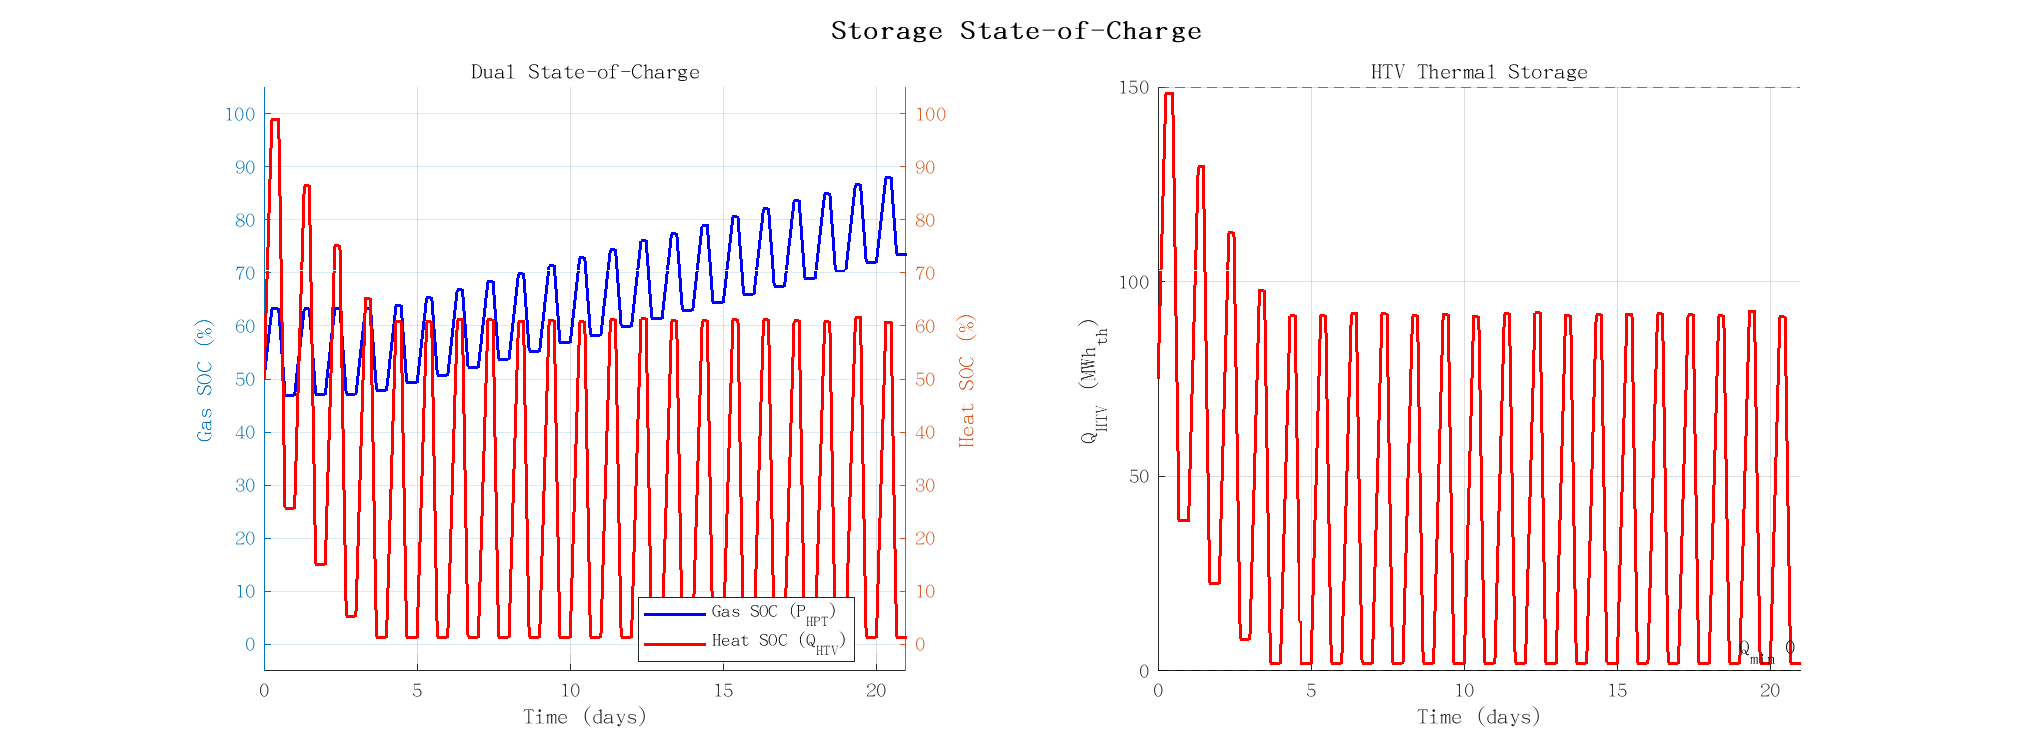
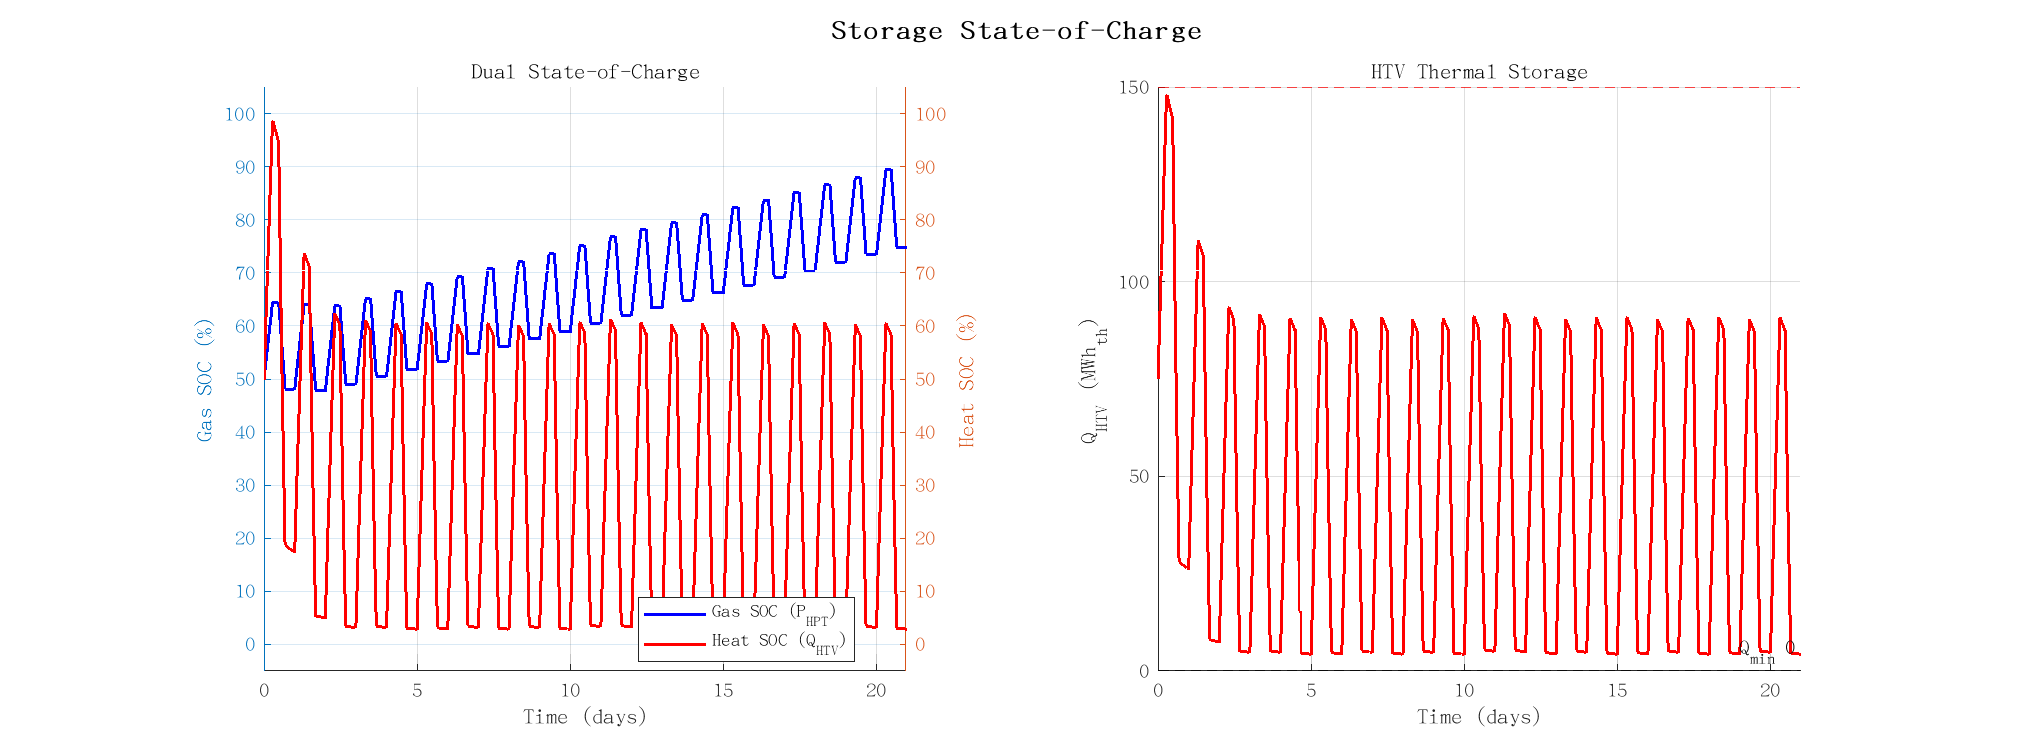
feat: upgrade HTV to detailed thermal oil model
Replace empirical Q→T mapping with physics-based oil model:
- State: T_HTV (oil temperature K) instead of Q_HTV (MJ)
- m*cp = 1964 MJ/K (150 MWh / 275K ΔT_max)
- dT/dt = (Q_IC - Q_HR - UA*(T-T_amb)) / (m*cp)
- UA_loss = 0.005 MW/K (industrial insulation)
- T_heat = T_HTV (CO2 reheat temperature = current oil temp)
- Constraints on T_HTV: charge if <568K, discharge if >308K
- T_HTV cycles 436K→308K→308K equilibrium

diff --git a/CCES_CHP_Simulink/src/ode/ode_dynamics.m b/CCES_CHP_Simulink/src/ode/ode_dynamics.m
@@ -1,93 +1,91 @@
 function [dx, W_comp, Q_IC, W_turb, Q_HR, T_heat, mode] = ode_dynamics(t, x)
-% 两相储罐 ODE: HPT液态CO2 + 饱和压力模型
-% x(1)=m_HPT [kg], x(2)=Q_HTV [MJ], x(3)=T_tank [K]
-persistent lib Fluid T_sat_vec P_sat_vec V_HPT
+% 两相HPT + 导热油HTV详细模型
+% x(1)=m_HPT [kg], x(2)=T_HTV [K], x(3)=T_tank [K]
+persistent lib Fluid T_sat_vec P_sat_vec V_HPT mcp_oil UA_loss T_amb T_max
 
 if isempty(lib)
     addpath(fullfile(fileparts(mfilename('fullpath')), '..', '..'));
     cfg = config_paths();
     lib = cfg.REFPROP_LIB;  Fluid = 'CO2';
-    V_HPT = 6228;
-    % 预计算饱和曲线 (260-304K)
+    V_HPT = 6228;  T_amb = 298;  T_max = 573;
+    % HPT 饱和曲线 LUT
     T_sat_vec = (260:0.5:304)';
     P_sat_vec = zeros(size(T_sat_vec));
     for i = 1:length(T_sat_vec)
         P_sat_vec(i) = getFP(lib, 'P', 'T', T_sat_vec(i), 'Q', 0, Fluid);
     end
-    fprintf('HPT两相模型: P_sat LUT %d pts (%.0f-%.0fK)\n', length(T_sat_vec), T_sat_vec(1), T_sat_vec(end));
+    % HTV 导热油: Q_cap=150MWh_th, ΔT_max=275K, m*cp=Q_cap/ΔT
+    mcp_oil = 150*3600 / (T_max - T_amb);  % ≈1964 MJ/K
+    UA_loss = 0.005;  % MW/K, 工业保温罐散热系数
+    fprintf('HTV导热油: m*cp=%.0f MJ/K, Tmax=%.0fK, UA=%.3f MW/K\n', mcp_oil, T_max, UA_loss);
+    fprintf('HPT两相: P_sat LUT %dpts (%.0f-%.0fK)\n', length(T_sat_vec), T_sat_vec(1), T_sat_vec(end));
 end
 
-m_HPT = x(1);  Q_HTV_MJ = x(2);  T_tank = x(3);
+m_HPT = x(1);  T_HTV = x(2);  T_tank = x(3);
+Q_HTV_MJ = mcp_oil * max(0, T_HTV - T_amb);  % 蓄热量 [MJ]
 
-% 当前温度饱和压力 + 密度
+% HPT 两相压力
 T_clamp = max(260, min(304, T_tank));
 P_sat_T = interp1(T_sat_vec, P_sat_vec, T_clamp, 'linear');
 rho_liq_T = getFP(lib, 'D', 'T', T_clamp, 'Q', 0, Fluid);
 rho_vap_T = getFP(lib, 'D', 'T', T_clamp, 'Q', 1, Fluid);
-
-% ==== 两相压力: 有液时 P=P_sat(T), 排空时 P=mRT/V ====
 m_sat_liq = rho_liq_T * V_HPT;
 m_sat_vap = rho_vap_T * V_HPT;
-
 if m_HPT >= m_sat_liq
-    overfill = (m_HPT - m_sat_liq) / m_sat_liq;
-    P_MPa = P_sat_T/1e6 + overfill * 1000;
+    P_MPa = P_sat_T/1e6 + (m_HPT - m_sat_liq)/m_sat_liq * 1000;
 elseif m_HPT > m_sat_vap * 0.05
     P_MPa = P_sat_T / 1e6;
 else
     P_MPa = m_HPT * 188.9 * T_tank / V_HPT / 1e6;
 end
 
-% ==== 调度 (每日循环: 充电7.5h + 放电5h) ====
+% 调度
 t_h = mod(t/3600, 24);
-if t_h < 7.5;       mode = 1;   % 充电
-elseif t_h < 11.5;   mode = 0;   % 待机
-elseif t_h < 16.5;   mode = -1;  % 放电 (3h→5h)
-else;                mode = 0;   % 待机
+if t_h < 7.5;       mode = 1;
+elseif t_h < 11.5;   mode = 0;
+elseif t_h < 16.5;   mode = -1;
+else;                mode = 0;
 end
 
-% ==== 约束条件 ====
-Q_MWh = max(0, Q_HTV_MJ/3600);
-P_ok_ch  = m_HPT < m_sat_liq * 0.995;    % 不满液时可充
-P_ok_dis = m_HPT > m_sat_vap * 1.05;     % 有液相时可放
-Q_ok_ch  = Q_MWh < 148;
-Q_ok_dis = Q_MWh > 2;
-T_heat = 298 + 185 * Q_MWh / (Q_MWh + 20);
-
-W_design = 10;  % MW
+% 约束 (基于油温)
+P_ok_ch  = m_HPT < m_sat_liq * 0.995;
+P_ok_dis = m_HPT > m_sat_vap * 1.05;
+Q_ok_ch  = T_HTV < T_max - 5;
+Q_ok_dis = T_HTV > T_amb + 10;
+T_heat = max(T_amb, min(T_max, T_HTV));  % CO2加热=当前油温
 
 if mode == 1 && P_ok_ch && Q_ok_ch
     % ===== 充电 =====
-    alpha_ch = 2.744;  % kg/(s·MW)
-    m_dot = alpha_ch * W_design;                    % 27.44 kg/s
-    [w_comp_kJ, q_IC_kJ] = charge_per_kg(lib, Fluid);
+    alpha_ch = 2.744;  m_dot = alpha_ch * 10;
+    [~, q_IC_kJ] = charge_per_kg(lib, Fluid);
     dm_HPT = m_dot;
-    dQ_HTV = q_IC_kJ * m_dot / 1000;
-    dT = (298 - T_tank) / 600;
-    W_C_actual = m_dot * w_comp_kJ / 1000;         % ~9.74 MW
-    W_comp = W_C_actual;  Q_IC = q_IC_kJ * m_dot / 1000;
-    W_turb = 0;  Q_HR = 0;
+    Q_IC_MW = q_IC_kJ * m_dot / 1000;
+    dT_HTV = (Q_IC_MW - UA_loss*(T_HTV-T_amb)) / mcp_oil;
+    dT_tank = (298 - T_tank) / 600;
+    W_comp = m_dot * charge_per_kg(lib, Fluid) / 1000;  % MW
+    Q_IC = Q_IC_MW;  W_turb = 0;  Q_HR = 0;
 
 elseif mode == -1 && P_ok_dis && Q_ok_dis
-    % ===== 放电: 透平按设计额定功率运行 =====
-    alpha_dis = 4.117;  % kg/(s·MW)
-    W_T_design = 10.12; % MW (Cycle.m: T1 5.49 + T2 4.63)
-    m_dot = alpha_dis * W_T_design;                % ~41.7 kg/s
-    [w_turb_kJ, q_HR_kJ] = discharge_per_kg(lib, Fluid, T_tank, T_heat);
+    % ===== 放电 =====
+    alpha_dis = 4.117;  W_T = 10.12;
+    m_dot = alpha_dis * W_T;
+    [~, q_HR_kJ] = discharge_per_kg(lib, Fluid, T_tank, T_heat);
     dm_HPT = -m_dot;
-    dQ_HTV = -q_HR_kJ * m_dot / 1000;
-    dT = -m_dot * 3e-5;
+    Q_HR_MW = q_HR_kJ * m_dot / 1000;
+    dT_HTV = (-Q_HR_MW - UA_loss*(T_HTV-T_amb)) / mcp_oil;
+    dT_tank = -m_dot * 3e-5;
     W_comp = 0;  Q_IC = 0;
-    W_turb = W_T_design;  Q_HR = q_HR_kJ * m_dot / 1000;
+    W_turb = W_T;  Q_HR = Q_HR_MW;
 
 else
-    % ===== 待机: 环境回温 =====
-    dm_HPT = 0;  dQ_HTV = 0;
-    dT = (298 - T_tank) / 50000;
+    % ===== 待机 =====
+    dm_HPT = 0;
+    dT_HTV = -UA_loss*(T_HTV-T_amb) / mcp_oil;
+    dT_tank = (T_amb - T_tank) / 50000;
     W_comp = 0;  Q_IC = 0;  W_turb = 0;  Q_HR = 0;
 end
 
-dx = [dm_HPT; dQ_HTV; dT];
+dx = [dm_HPT; dT_HTV; dT_tank];
 end
 
 %% ==== 充电: 单位工质压缩机总功 + IC回收热 [kJ/kg] ====

diff --git a/CCES_CHP_Simulink/src/ode/run_ode_simulation.m b/CCES_CHP_Simulink/src/ode/run_ode_simulation.m
@@ -16,26 +16,29 @@ rho_liq = getFluidProperty(cfg.REFPROP_LIB, 'D', 'T', T_amb, 'P', 6.80e6, ...
     'CO2', 1, 1, 'MASS BASE SI');  % 过冷液密度 ~713 kg/m3
 m_full = rho_liq * V_HPT;    % 满液质量 ~4,439 t
 m_HPT_0 = 0.5 * m_full;      % 初始50%充装
-Q_cap  = 150 * 3600;
-Q_init =  75 * 3600;
+T_amb = 298;  T_max = 573;
+T_HTV_0 = 298 + 0.5 * (T_max - T_amb);  % 50% SOC → 435.5 K
+Q_init_MJ = 150*3600 / (T_max-T_amb) * (T_HTV_0 - T_amb);  % 75 MWh
 
-fprintf('HPT过冷液模型: rho=%.0f kg/m3, 满液=%.0f t, 初始=%.0f t\n', ...
-    rho_liq, m_full/1000, m_HPT_0/1000);
+fprintf('HTV导热油: T_init=%.0f K (%.0f MWh)\n', T_HTV_0, Q_init_MJ/3600);
 
 %% 初始状态
 T_tank_0 = 298;
-x0 = [m_HPT_0; Q_init; T_tank_0];
+x0 = [m_HPT_0; T_HTV_0; T_tank_0];
 
 %% 仿真
 dt = 180;  t_sim = 21 * 86400;  tspan = 0:dt:t_sim;
-fprintf('CCES-CHP ODE仿真 (21天): 充电7.5h 放电5h\n');
+fprintf('CCES-CHP ODE仿真 (21天, 导热油HTV): 充电7.5h 放电5h\n');
 
 opts = odeset('RelTol', 2e-4, 'MaxStep', 900);
 [t, x] = ode45(@ode_dynamics, tspan, x0, opts);
 
 %% 后处理
-m_HPT = x(:,1);  Q_HTV = x(:,2);  T_tank = x(:,3);
+m_HPT = x(:,1);  T_HTV = x(:,2);  T_tank = x(:,3);
 % HPT压力: 有液时6.80 MPa, 排空时降压
+mcp_oil = 150*3600 / (573-298);
+Q_HTV = mcp_oil * max(0, T_HTV - 298);
+Q_cap = 150 * 3600;
 P_HPT = 6.80 * ones(size(m_HPT));
 P_HPT(m_HPT < m_full * 0.05) = m_HPT(m_HPT < m_full * 0.05) .* 188.9 .* T_tank(m_HPT < m_full * 0.05) / V_HPT / 1e6;
 
